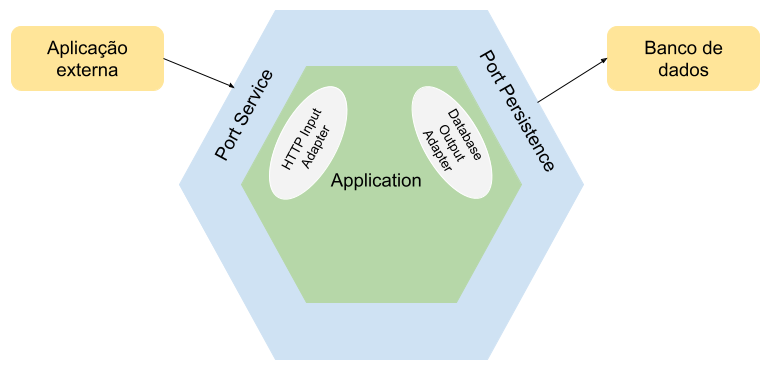
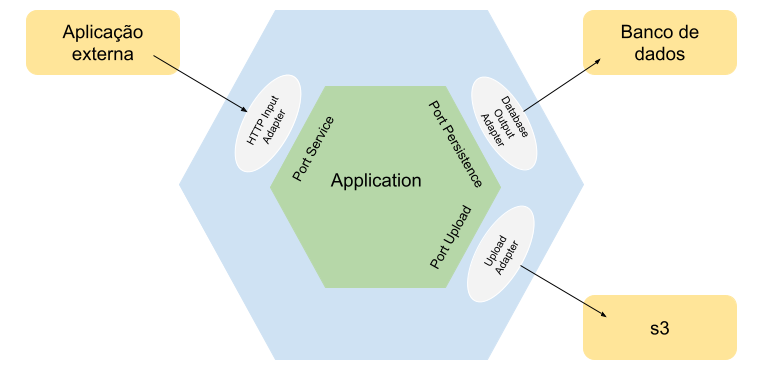
adapter s3

diff --git a/item/application/service/item_service.py b/item/application/service/item_service.py
@@ -1,5 +1,6 @@
 from item.application.exception.exception import ItemAlreadyExists, ItemNotFound
 from item.ports.outbound.item_persistence_port import ItemPersistencePort
+from item.ports.outbound.upload_port import UploadPort
 
 
 class ItemService:
@@ -7,32 +8,44 @@ class ItemService:
     Service que contém a lógica da aplicação. Não deve se comunicar diretamente com os adapters. Para salvar o Item,
     por exemplo, deve passar pela porta ItemPersistencePort.
     Por padrão, ItemPersistencePort utiliza o ItemPersistenceAdapter. Se for necessário utilizar outro adapter, deve
-    ser definido ao instanciar a porta. Ex.: port = ItemPersistencePort(S3Adapter()).
+    ser definido ao instanciar a porta. Ex.: persistence_port = ItemPersistencePort(S3Adapter()).
     """
-    port = ItemPersistencePort()
+    persistence_port = ItemPersistencePort()
+    upload_port = UploadPort()
 
     def find_by_id(self, _id):
-        item = self.port.find_by_id(_id)
+        item = self.persistence_port.find_by_id(_id)
         return item
 
     def find_all(self):
-        return self.port.find_all()
+        return self.persistence_port.find_all()
 
-    def create(self, name, price):
-        if self.port.find_by_name(name):
+    def create(self, name, price, image):
+        if self.persistence_port.find_by_name(name):
             raise ItemAlreadyExists(message=f'An item with name {name} already exists.')
-        item = self.port.create(name, price)
+
+        item = self.persistence_port.create(name, price)
+
+        if image:
+            file_name = f'item/{item.id}/{image.filename}'
+            image_url = self.upload_port.upload_file(image, file_name)
+            item = self.persistence_port.update(item.id, name, price, image_url)
         return item
 
-    def update(self, _id, name, price):
-        item = self.port.find_by_id(_id)
+    def update(self, _id, name, price, image):
+        item = self.persistence_port.find_by_id(_id)
         if not item:
             raise ItemNotFound()
-        item = self.port.update(_id, name, price)
+
+        image_url = item.image
+        if image:
+            file_name = f'item/{_id}/{image.filename}'
+            image_url = self.upload_port.upload_file(image, file_name) or image_url
+        item = self.persistence_port.update(_id, name, price, image_url)
         return item
 
     def delete(self, _id):
-        item = self.port.find_by_id(_id)
+        item = self.persistence_port.find_by_id(_id)
         if not item: 
             raise ItemNotFound()
-        self.port.delete(_id)
+        self.persistence_port.delete(_id)

diff --git a/item/ports/outbound/item_persistence_port.py b/item/ports/outbound/item_persistence_port.py
@@ -1,3 +1,6 @@
+from typing import List
+
+from item.adapters.model.item_model import ItemModel
 from item.adapters.outbound.item_persistence_adapter import ItemPersistenceAdapter
 
 
@@ -5,20 +8,20 @@ class ItemPersistencePort:
     def __init__(self, adapter=None):
         self.adapter = adapter or ItemPersistenceAdapter()
 
-    def find_by_name(self, name):
+    def find_by_name(self, name: str) -> ItemModel:
         return self.adapter.find_by_name(name)
 
-    def find_by_id(self, _id):
+    def find_by_id(self, _id: int) -> ItemModel:
         return self.adapter.find_by_id(_id)
 
-    def find_all(self):
+    def find_all(self) -> List[ItemModel]:
         return self.adapter.find_all()
 
-    def create(self, name, price):
-        return self.adapter.create(name, price)
+    def create(self, name: str, price: float, image: str = None) -> ItemModel:
+        return self.adapter.create(name, price, image)
 
-    def update(self, _id, name, price):
-        return self.adapter.update(_id, name, price)
+    def update(self, _id: int, name: str, price: float, image: str = None) -> ItemModel:
+        return self.adapter.update(_id, name, price, image)
 
-    def delete(self, _id):
+    def delete(self, _id: int) -> None:
         self.adapter.delete(_id)

diff --git a/item/ports/inbound/item_service_port.py b/item/ports/inbound/item_service_port.py
@@ -1,5 +1,8 @@
+from typing import List
+
 from flask_restful import fields
 
+from item.adapters.model.item_model import ItemModel
 from item.application.service.item_service import ItemService
 
 
@@ -8,20 +11,21 @@ class ItemServicePort:
     resource_fields = {
         'id': fields.Integer,
         'name': fields.String,
-        'price': fields.Float
+        'price': fields.Float,
+        'image': fields.String
     }
 
-    def find_by_id(self, _id):
+    def find_by_id(self, _id: int) -> ItemModel:
         return self.service.find_by_id(_id)
 
-    def find_all(self):
+    def find_all(self) -> List[ItemModel]:
         return self.service.find_all()
 
-    def create(self, name, price):
-        return self.service.create(name, price)
+    def create(self, name: str, price: float, image: str) -> ItemModel:
+        return self.service.create(name, price, image)
 
-    def update(self, _id, name, price):
-        return self.service.update(_id, name, price)
+    def update(self, _id: int, name: str, price: float, image: str) -> ItemModel:
+        return self.service.update(_id, name, price, image)
 
-    def delete(self, _id):
+    def delete(self, _id: int) -> None:
         self.service.delete(_id)

diff --git a/item/adapters/outbound/upload_s3_adapter.py b/item/adapters/outbound/upload_s3_adapter.py
@@ -1,0 +1,29 @@
+import boto3
+from botocore.exceptions import ClientError
+
+from settings import AWS_ACCESS_KEY_ID, AWS_SECRET_ACCESS_KEY, BUCKET_NAME
+
+
+class UploadS3Adapter:
+    aws_access_key_id = AWS_ACCESS_KEY_ID
+    aws_secret_access_key = AWS_SECRET_ACCESS_KEY
+    bucket = BUCKET_NAME
+
+    def upload_file(self, file, file_name=None):
+        """
+        Upload a file to an S3 bucket
+        :param file: File to upload
+        :param file_name: File name
+        :return: File url if file was uploaded, else None
+        """
+        s3_client = boto3.client(
+            's3',
+            aws_access_key_id=self.aws_access_key_id,
+            aws_secret_access_key=self.aws_secret_access_key,
+        )
+        file_name = file_name or file.filename
+        try:
+            s3_client.upload_fileobj(file, self.bucket, file_name)
+        except ClientError:
+            return None
+        return f'https://s3.amazonaws.com/{self.bucket}/{file_name}'

diff --git a/app.py b/app.py
@@ -1,20 +1,20 @@
+import os
+
 from flask import Flask
 from flask_restful import Api
 from flasgger import Swagger
+
+from settings import DEBUG, SQLALCHEMY_DATABASE_URI
 from db import db
 
 from item.adapters.inbound.controller.item_controller import ItemController, ItemListController
 
 
 app = Flask(__name__)
-
-app.config['SQLALCHEMY_DATABASE_URI'] = 'sqlite:///data.db'
-# utilizar o flask flask sqlalchemy
-app.config['SQLALCHEMY_TRACK_MODIFICATIONS'] = False
-
-app.secret_key = 'asdf'
+app.config['SQLALCHEMY_DATABASE_URI'] = SQLALCHEMY_DATABASE_URI
+app.config['SQLALCHEMY_TRACK_MODIFICATIONS'] = False  # utilizar o flask sqlalchemy
+app.secret_key = os.environ.get('SECRET_KEY')
 api = Api(app)
-
 swagger = Swagger(app)
 
 
@@ -28,4 +28,5 @@ api.add_resource(ItemListController, '/item')
 
 if __name__ == '__main__':
     db.init_app(app)
-    app.run(debug=True)
+    app.run(debug=DEBUG)
+

diff --git a/item/adapters/outbound/repository/item_repository.py b/item/adapters/outbound/repository/item_repository.py
@@ -1,4 +1,5 @@
 from db import db
+
 from item.adapters.model.item_model import ItemModel
 
 
@@ -16,17 +17,18 @@ class ItemRepository:
         return ItemModel.query.all()
 
     @staticmethod
-    def create(name, price):
-        item = ItemModel(name, price)
+    def create(name, price, image):
+        item = ItemModel(name, price, image)
         db.session.add(item)
         db.session.commit()
         return item
 
-    def update(self, _id, name, price):
+    def update(self, _id, name, price, image):
         item = self.find_by_id(_id)
         if item:
             item.name = name
             item.price = price
+            item.image = image
             db.session.add(item)
             db.session.commit()
         return item

diff --git a/item/adapters/dto/item_dto.py b/item/adapters/dto/item_dto.py
@@ -1,3 +1,4 @@
+import werkzeug
 from flask_restful import reqparse
 
 
@@ -7,11 +8,20 @@ class CreateItemDto:
         'name',
         type=str,
         required=True,
-        help="The field 'name' cannot be left blank!"
+        location='form',
+        help="The field 'name' cannot be left blank!",
+
     )
     parser.add_argument(
         'price',
         type=float,
         required=True,
+        location='form',
         help="This field 'price' cannot be left blank!"
+    )
+    parser.add_argument(
+        'image',
+        type=werkzeug.datastructures.FileStorage,
+        required=False,
+        location='files',
     )

diff --git a/item/adapters/outbound/item_persistence_adapter.py b/item/adapters/outbound/item_persistence_adapter.py
@@ -16,11 +16,11 @@ class ItemPersistenceAdapter:
     def find_all(self):
         return self.respository.find_all()
 
-    def create(self, name, price):
-        return self.respository.create(name, price)
+    def create(self, name, price, image=None):
+        return self.respository.create(name, price, image)
 
-    def update(self, _id, name, price):
-        return self.respository.update(_id, name, price)
+    def update(self, _id, name, price, image=None):
+        return self.respository.update(_id, name, price, image)
 
     def delete(self, _id):
         self.respository.delete(_id)

diff --git a/item/ports/outbound/upload_port.py b/item/ports/outbound/upload_port.py
@@ -1,0 +1,14 @@
+import werkzeug
+
+from item.adapters.outbound.upload_s3_adapter import UploadS3Adapter
+
+
+file_type = werkzeug.datastructures.FileStorage
+
+
+class UploadPort:
+    def __init__(self, adapter=None):
+        self.adapter = adapter or UploadS3Adapter()
+
+    def upload_file(self, file: file_type, file_name: str = None) -> str:
+        return self.adapter.upload_file(file, file_name)

diff --git a/settings.py b/settings.py
@@ -1,0 +1,12 @@
+import os
+
+from dotenv import load_dotenv
+
+load_dotenv()
+
+DEBUG = os.environ.get('DEBUG')
+SECRET_KEY = os.environ.get('SECRET_KEY')
+SQLALCHEMY_DATABASE_URI = os.environ.get('SQLALCHEMY_DATABASE_URI')
+AWS_ACCESS_KEY_ID = os.environ.get('AWS_ACCESS_KEY_ID')
+AWS_SECRET_ACCESS_KEY = os.environ.get('AWS_SECRET_ACCESS_KEY')
+BUCKET_NAME = os.environ.get('BUCKET_NAME')

diff --git a/item/adapters/model/item_model.py b/item/adapters/model/item_model.py
@@ -7,7 +7,9 @@ class ItemModel(db.Model):
     id = db.Column(db.Integer, primary_key=True)
     name = db.Column(db.String(100))
     price = db.Column(db.Float(precision=2))
+    image = db.Column(db.String())
 
-    def __init__(self, name, price):
+    def __init__(self, name, price, image=None):
         self.name = name
         self.price = price
+        self.image = image

diff --git a/README.md b/README.md
@@ -6,6 +6,7 @@ Diagrama:
 
 Endpoints:
 
+* Documentação: http://localhost:5000/apidocs/
 * Cadastrar item: POST http://127.0.0.1:5000/item - {"name": "table", "price": "150.00"}
 * Recuperar item pelo nome: GET http://127.0.0.1:5000/item/table
 * Recuperar todos os itens: GET http://127.0.0.1:5000/item
